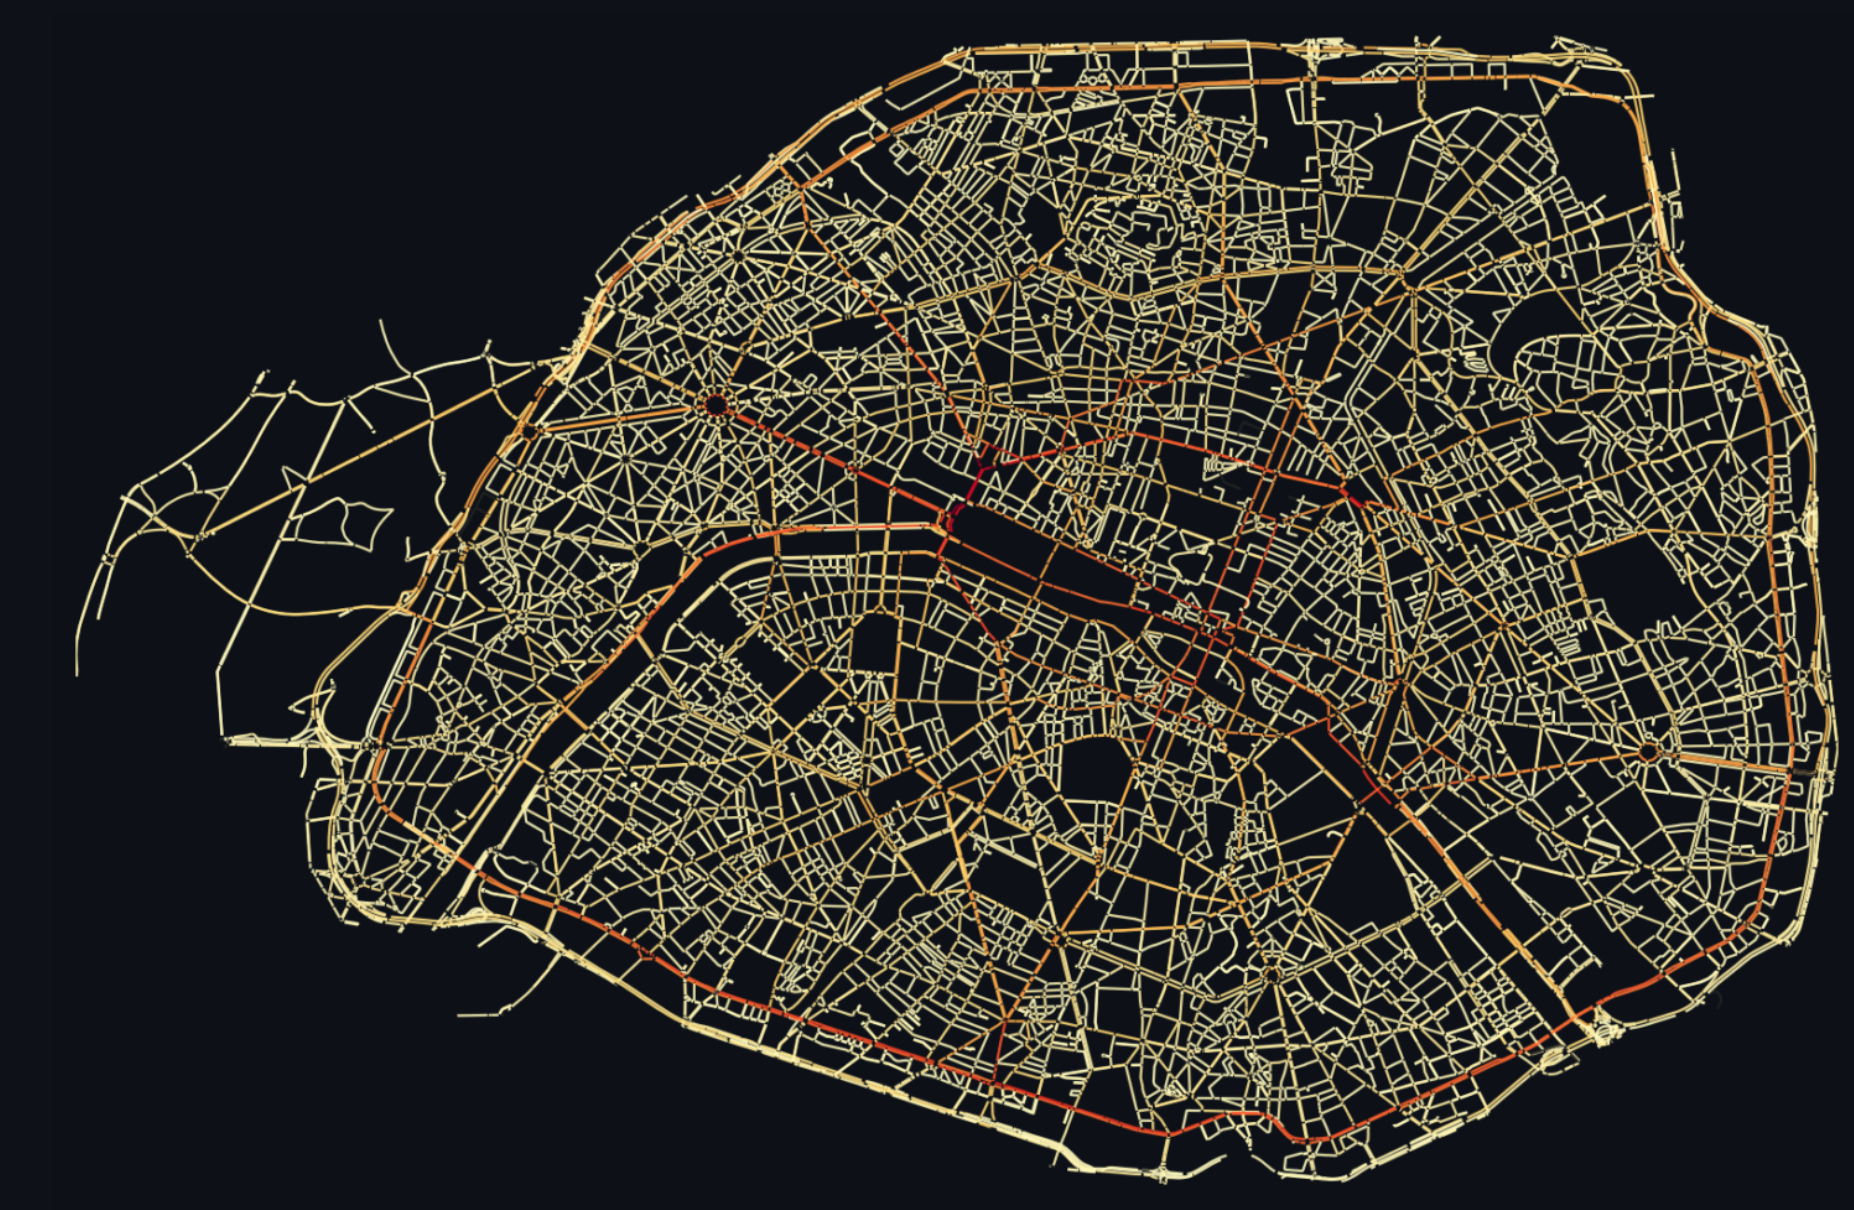
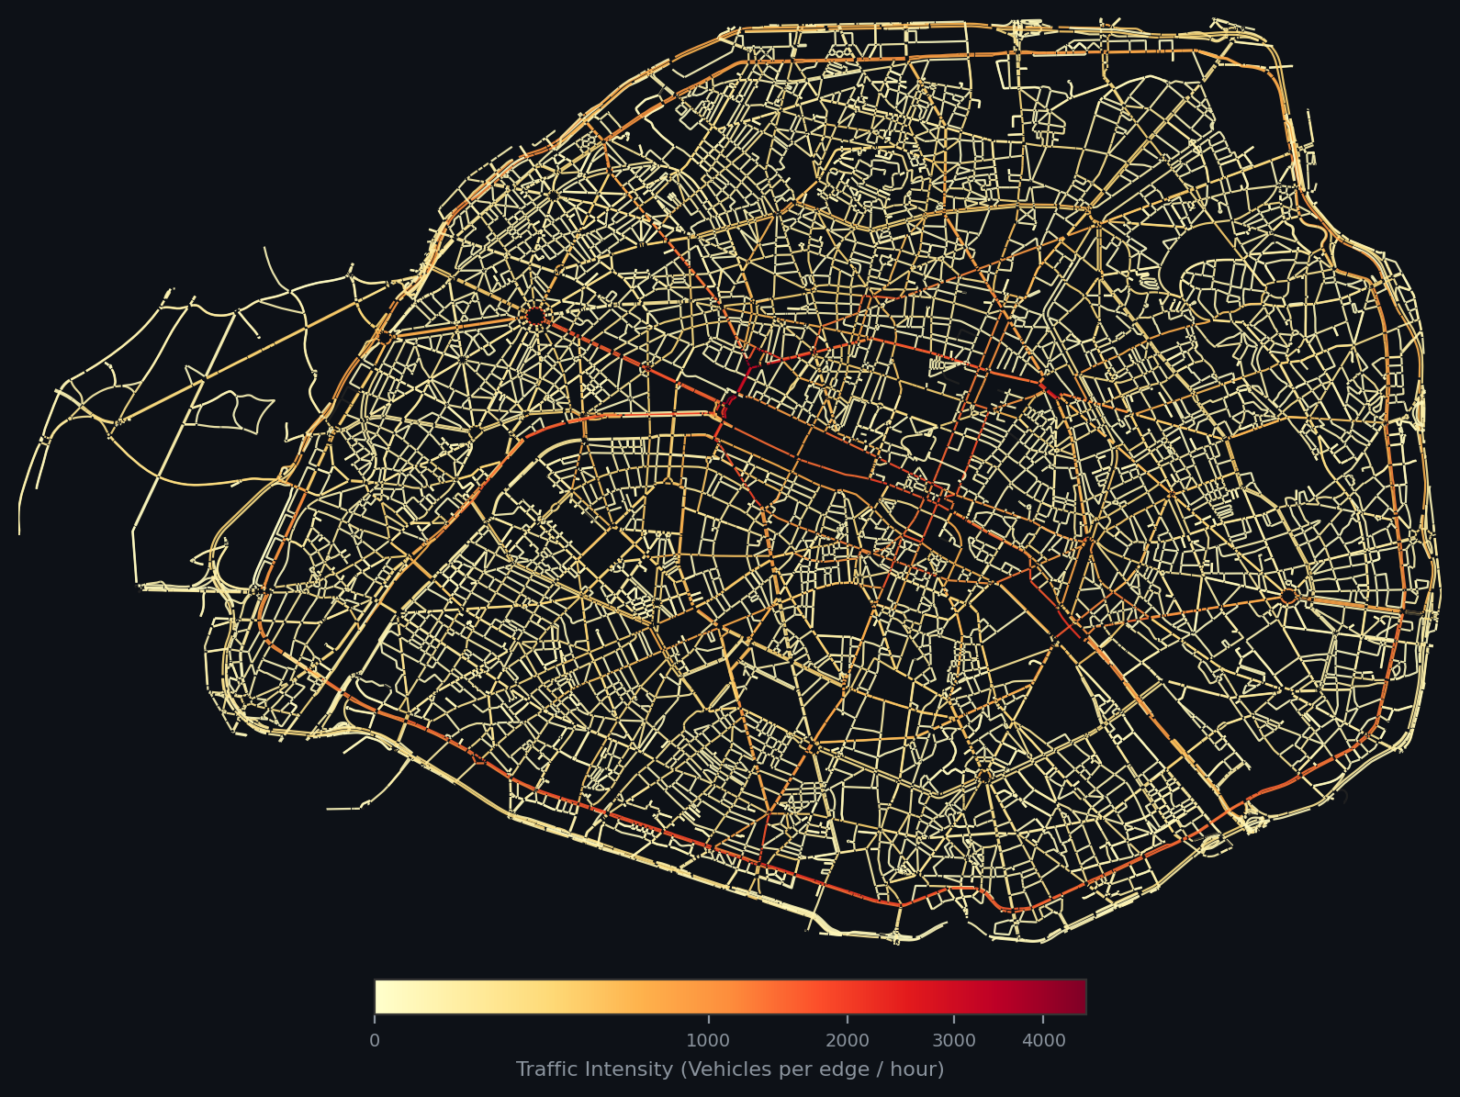
docs: update memoire (8).tex and traffic map image

diff --git a/memoire (8).tex b/memoire (8).tex
@@ -212,45 +212,20 @@ Spectrale)}\label{de-la-micro-simulation-uxe0-lanalyse-spectrale}
 \textbf{Année Universitaire :} 2025-2026
 
 \textbf{Sous le tutorat de :}\\
-* \textbf{M. Pierre UZARRALDE (IA)}, Professeur à l'École Hexagone
+* \textbf{ }, Professeur à l'École Hexagone
 
 \textbf{Co-encadrant de recherche (VinUniversity) :}\\
 * \textbf{Équipe de recherche Smart Mobility}, VinUniversity (Hanoï,
 Vietnam)
 
-\emph{Illustration de couverture : Jumeau Numérique Urbain et Signature
-Spectrale de Graphe}
+\emph{ }
 
 \newpage
 
 \section{REMERCIEMENTS}\label{remerciements}
 
-Je tiens à exprimer ma profonde gratitude à l'ensemble des personnes qui
-ont contribué au succès de ce travail de recherche et à l'aboutissement
-de mon cursus de fin d'études.
 
-Tout d'abord, je remercie chaleureusement mon tuteur académique,
-\textbf{M. Pierre Uzarralde}, pour son suivi rigoureux, ses conseils
-méthodologiques et son exigence scientifique tout au long de la
-rédaction de ce rapport professionnel.
 
-Mes remerciements s'adressent également aux équipes de recherche en
-mobilité intelligente de l'Université \textbf{VinUniversity} à Hanoï
-(Vietnam), qui m'ont accueilli lors de mon séjour de recherche et m'ont
-fourni les moyens matériels et de collecte de données nécessaires à
-cette étude.
-
-Je remercie particulièrement les groupes \textbf{Vingroup},
-\textbf{VinFast} et \textbf{V-Green} pour l'accès aux données
-opérationnelles du hub de recharge ultra-rapide de Sao Bien (Vinhomes
-Ocean Park), ainsi que la compagnie \textbf{GSM (Green and Smart
-Mobility)} pour les données relatives à leur flotte de taxis
-électriques.
-
-Enfin, je remercie l'administration et le corps enseignant de
-l'\textbf{École Hexagone} pour la qualité de l'enseignement dispensé,
-ainsi que ma famille et mes proches pour leur soutien indéfectible
-durant cette année académique.
 
 \newpage
 